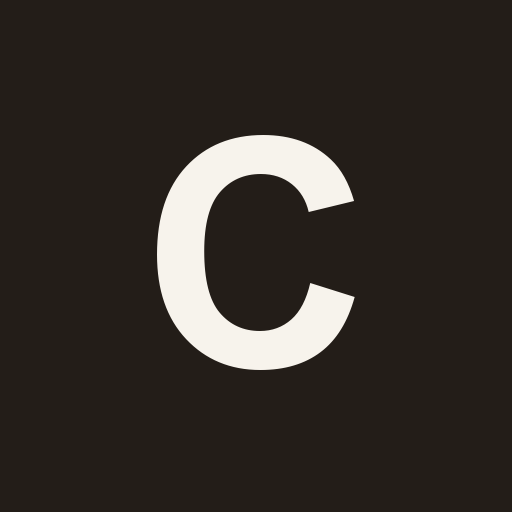
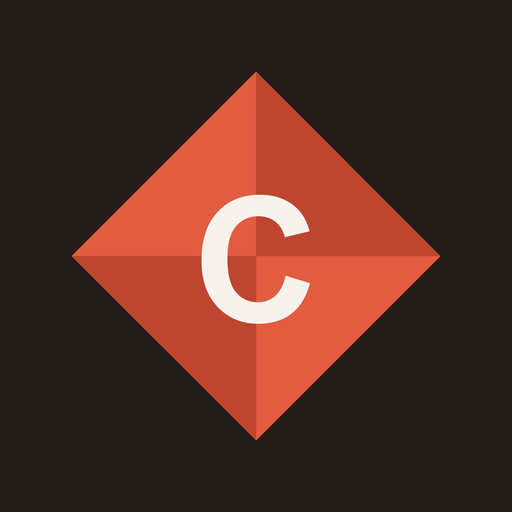
feat: icono de la app (rombo de arlequin con C) e icono para iOS

Changed region(s): [[0.125, 0.125, 0.875, 0.875]]

diff --git a/app/layout.js b/app/layout.js
@@ -12,9 +12,12 @@ const archivo = Archivo({
   display: 'swap',
 });
 
+const base = process.env.GITHUB_ACTIONS === 'true' ? '/organizador-eventos' : '';
+
 export const metadata = {
   title: 'Canovaccio',
   description: 'Programación, boletas y bitácora de festivales',
+  icons: { icon: `${base}/icono-192.png`, apple: `${base}/apple-touch-icon.png` },
 };
 
 export const viewport = {
